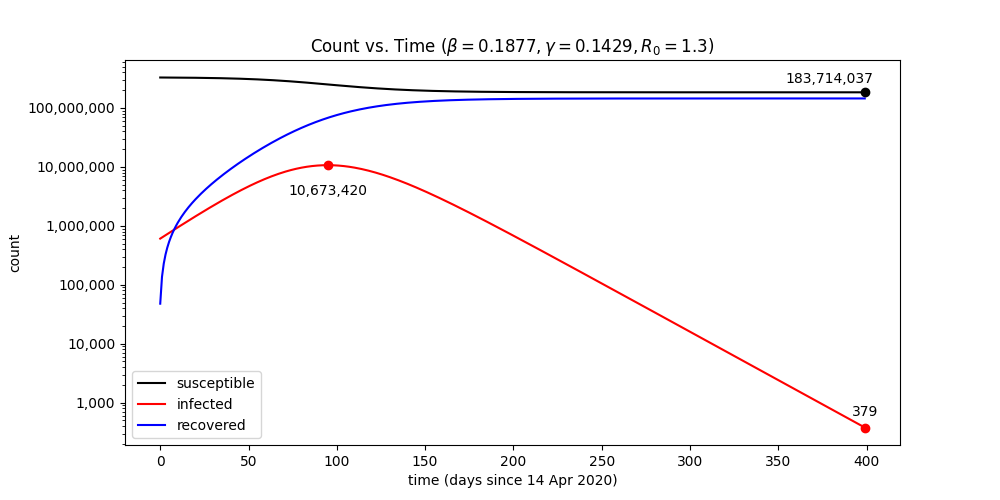
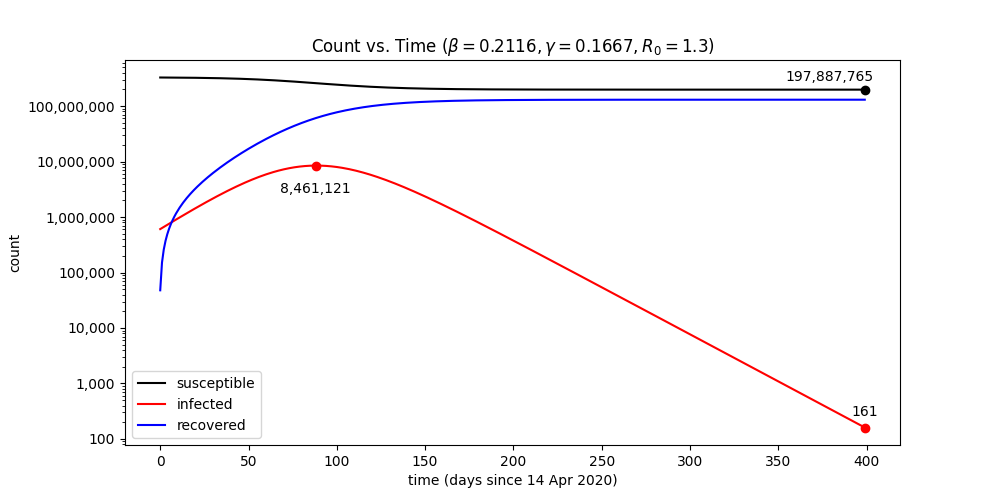
Change average infectious period to 6 days

diff --git a/model.py b/model.py
@@ -39,7 +39,7 @@ def main():
 
     # Input parameters
     # recovery_rate = 1 / 19.6
-    recovery_rate = 1 / 7
+    recovery_rate = 1 / 6
     # recovery_rate = 1 / 4
 
     # Solver
